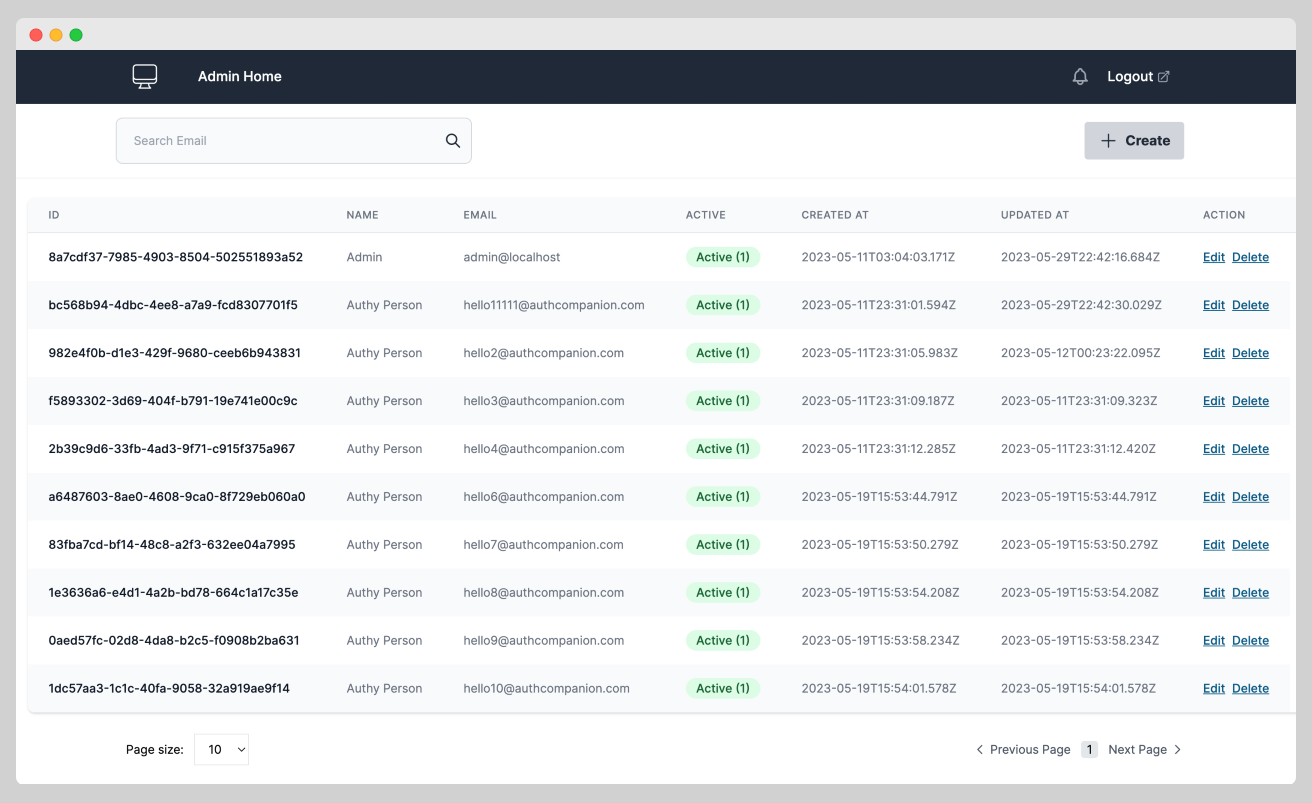
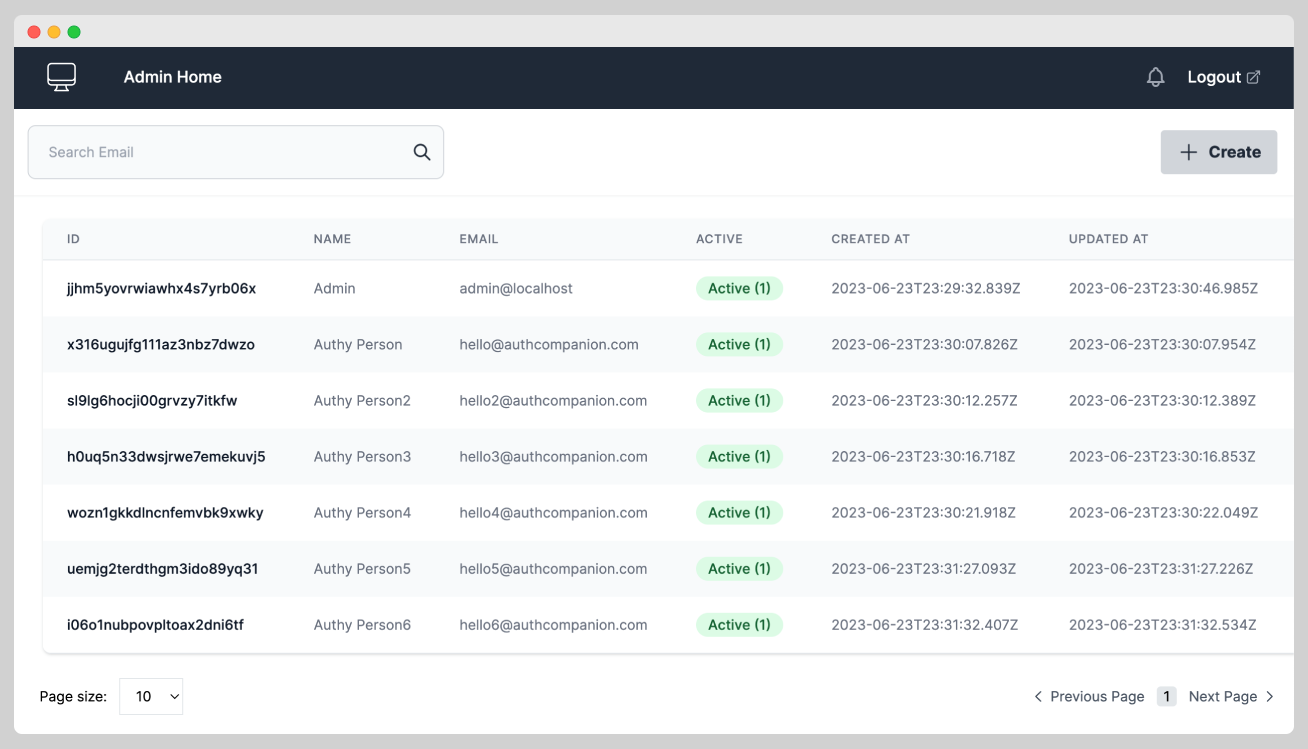
refactor: move to cuid2 for unique user ids

diff --git a/plugins/key/admin.key.js b/plugins/key/admin.key.js
@@ -1,7 +1,7 @@
 import fastifyPlugin from "fastify-plugin";
 import config from "../../config.js";
 import { writeFileSync } from "fs";
-import { randomUUID } from "crypto";
+import { createId } from "@paralleldrive/cuid2";
 import { createHash } from "../../utilities/credential.js";
 import * as crypto from "crypto";
 
@@ -26,7 +26,7 @@ const setupAdminKey = async function (fastify) {
     }
 
     //Create the default admin user in the Database, set the password to a random UUID as a placeholder
-    const uuid = randomUUID();
+    const uuid = createId();
     const adminPwd = generatePassword();
     const hashPwd = await createHash(adminPwd);
 

diff --git a/services/webAuthn/registrationOptions.js b/services/webAuthn/registrationOptions.js
@@ -1,5 +1,6 @@
 import config from "../../config.js";
 import { randomUUID } from "crypto";
+import { createId } from "@paralleldrive/cuid2";
 import compadre from "compadre";
 import { nouns } from "../../utilities/names.js";
 import { createHash } from "../../utilities/credential.js";
@@ -9,7 +10,7 @@ import { generateRegistrationOptions } from "@simplewebauthn/server";
 export const registrationOptionsHandler = async function (request, reply) {
   try {
     //create a user.id for the new registration
-    const userUUID = randomUUID();
+    const userUUID = createId();
 
     //set the PR's ID value
     const appURL = new URL(config.ORIGIN);

diff --git a/services/auth/registration.js b/services/auth/registration.js
@@ -1,5 +1,6 @@
 import { createHash } from "../../utilities/credential.js";
 import { randomUUID } from "crypto";
+import { createId } from "@paralleldrive/cuid2";
 import { makeAccesstoken, makeRefreshtoken } from "../../utilities/jwt.js";
 import config from "../../config.js";
 
@@ -26,7 +27,7 @@ export const registrationHandler = async function (request, reply) {
     }
     //Create the user in the Database
     const hashpwd = await createHash(request.body.data.attributes.password);
-    const uuid = randomUUID();
+    const uuid = createId();
     const jwtid = randomUUID();
 
     const registerStmt = this.db.prepare(

diff --git a/services/admin/users/create.js b/services/admin/users/create.js
@@ -1,5 +1,6 @@
 import { createHash } from "../../../utilities/credential.js";
 import { randomUUID } from "crypto";
+import { createId } from "@paralleldrive/cuid2";
 
 export const createUserHandler = async function (request, reply) {
   try {
@@ -50,7 +51,7 @@ export const createUserHandler = async function (request, reply) {
 
     //Create the user in the Database
     const hashpwd = await createHash(request.body.data.attributes.password);
-    const uuid = randomUUID();
+    const uuid = createId();
     const jwtid = randomUUID();
 
     const registerStmt = this.db.prepare(

diff --git a/README.md b/README.md
@@ -141,9 +141,9 @@ The Admin Dashboard is a tool that allows administrators or web application owne
 
 It provides a range of functions that administrators can use to create, edit, and delete user accounts via a friendly and intuitive interface.
 
-Check out the Admin Dashboard in the documentation here: [Administer](https://docs.authcompanion.com/guide/administer.html)
+Check out the Admin Dashboard in the documentation here: [Administer](https://docs.authcompanion.com/guide/administer.html). You can find the initial admin password on the `./adminkey` file.
 
-![Login](./.github/public/admin_dashboard.png)
+![Admin](./.github/public/admin_dashboard.png)
 
 ---
 
